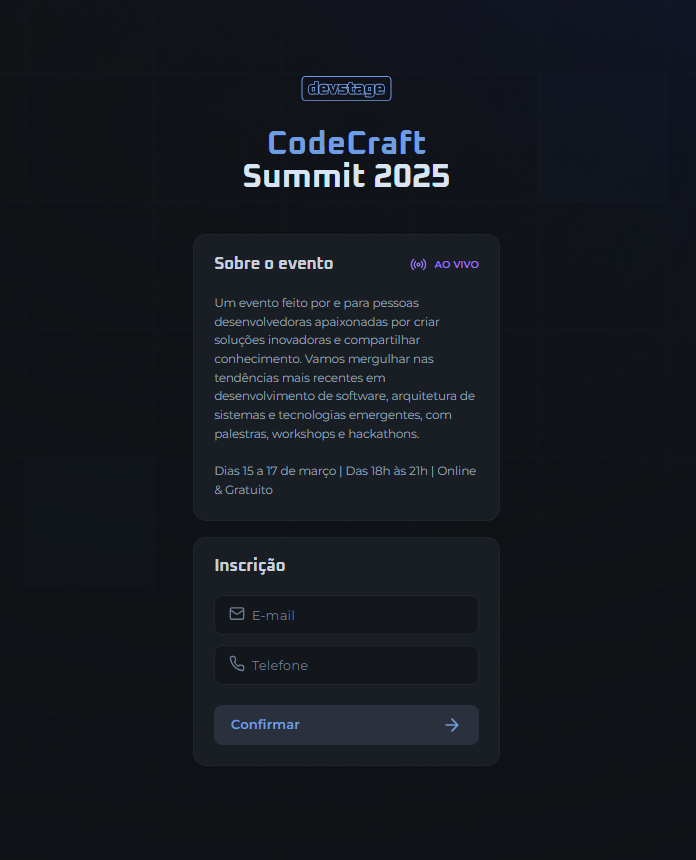
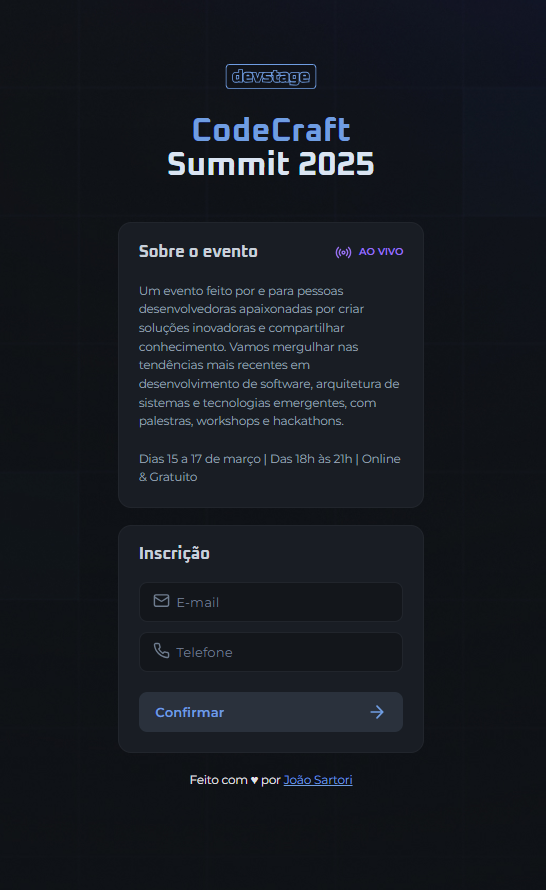
add footer

diff --git a/index.html b/index.html
@@ -27,6 +27,15 @@
       <div id="app">
 
       </div>
+
+      <footer>
+        Feito com ♥ por
+        <a
+          href="https://www.linkedin.com/in/jo%C3%A3o-paulo-sartori-95008b341/" class="custom-link"
+          target="_blank" 
+          >João Sartori</a>
+      </footer>
+      
     </div>
 
   </body>

diff --git a/index.css b/index.css
@@ -193,3 +193,13 @@ h4 {
   line-height: 100%;
   color: #C8D0DA;
 }
+
+footer {
+  padding: 24px 0;
+  text-align: center;
+  font-size: 14px;
+  
+  .custom-link {
+    color: #6F9DE2
+  }  
+}
